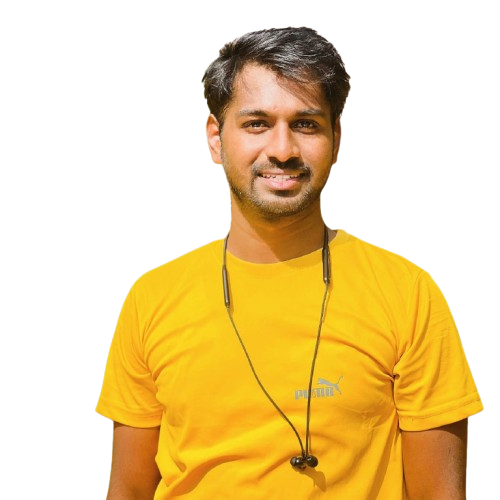
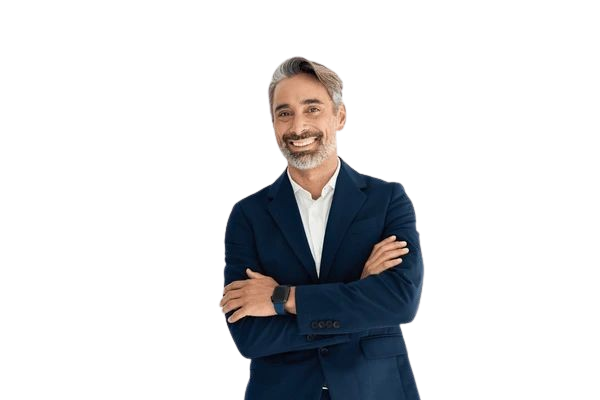
diarector

diff --git a/src/components/ProfessorsSection.tsx b/src/components/ProfessorsSection.tsx
@@ -17,22 +17,16 @@ const ProfessorsSection = () => {
 
   const professors: Professor[] = [
     {
-      name: "Shin Saimdang",
-      title: "Professor",
+      name: "Hiren Soni",
+      title: "Managing Director",
       imageSrc: "/navnath.png",
-      affiliation: [
-        "Ph.D. Committee Member, Seoul National University - Department of Profiling",
-        "Member, NYC Research Association",
-      ],
+      affiliation: [""],
     },
     {
-      name: "Su Ji",
-      title: "Professor",
-      imageSrc: "/download.png",
-      affiliation: [
-        "Ph.D. Committee Member, Seoul National University - Department of Profiling",
-        "Member, NYC Research Association",
-      ],
+      name: "Vijay Soni",
+      title: "Managing Director",
+      imageSrc: "/download-2.png",
+      affiliation: [""],
     },
   ];
 
@@ -88,7 +82,7 @@ const ProfessorsSection = () => {
             animate="visible"
           >
             <motion.div
-              className="rounded-full overflow-hidden w-48 h-88 md:w-56 md:h-56 mb-6 bg-gray-100 shadow-lg"
+              className="rounded-xl overflow-hidden w-48 h-88 md:w-56 md:h-56 mb-6 bg-gray-100 shadow-lg"
               whileHover={{
                 scale: 1.05,
                 boxShadow:
